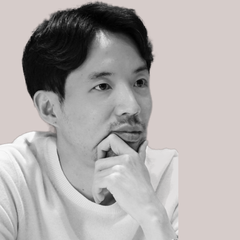
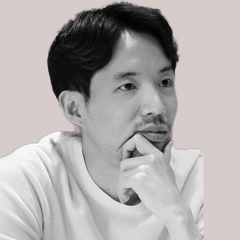
타임테이블: 고경하 프로필 사진 얼굴 가운데로
Claude-Session: https://claude.ai/code/session_01R7psaqm8m7GEAGGww3SgQz

diff --git a/index.html b/index.html
@@ -907,7 +907,7 @@ try{ if('scrollRestoration' in history) history.scrollRestoration='manual'; }cat
     if(n==='에브리바레') return `<span class="av logo"><img src="img/everybarre.png" alt="everybarre"></span>`;
     if(n==='스페셜 게스트') return `<span class="av guest" aria-hidden="true"><svg width="20" height="20" viewBox="0 0 24 24"><path d="M12 1.5C12.7 7.4 16.6 11.3 22.5 12C16.6 12.7 12.7 16.6 12 22.5C11.3 16.6 7.4 12.7 1.5 12C7.4 11.3 11.3 7.4 12 1.5Z" fill="#7A5450"/></svg></span>`;
     const f=PHOTO[n]; if(!f) return `<span class="av" aria-hidden="true">${n.slice(0,1)}</span>`;
-    return `<span class="av photo"><img src="img/${f}.png?v=6" alt="" loading="lazy"></span>`; };
+    return `<span class="av photo"><img src="img/${f}.png?v=7" alt="" loading="lazy"></span>`; };
   const dur=t=>{const m=t.match(/(\d+):(\d+)\D+(\d+):(\d+)/); if(!m) return ''; const d=(+m[3]*60+ +m[4])-(+m[1]*60+ +m[2]); return d>0?d+'분':'';};
   const ACT={open:()=>`<a class="s-book" href="${BOOK}" target="_blank" rel="noopener">예매하기 ↗</a>`,
     soon:()=>`<span class="c-state soon">오픈 예정</span>`,
